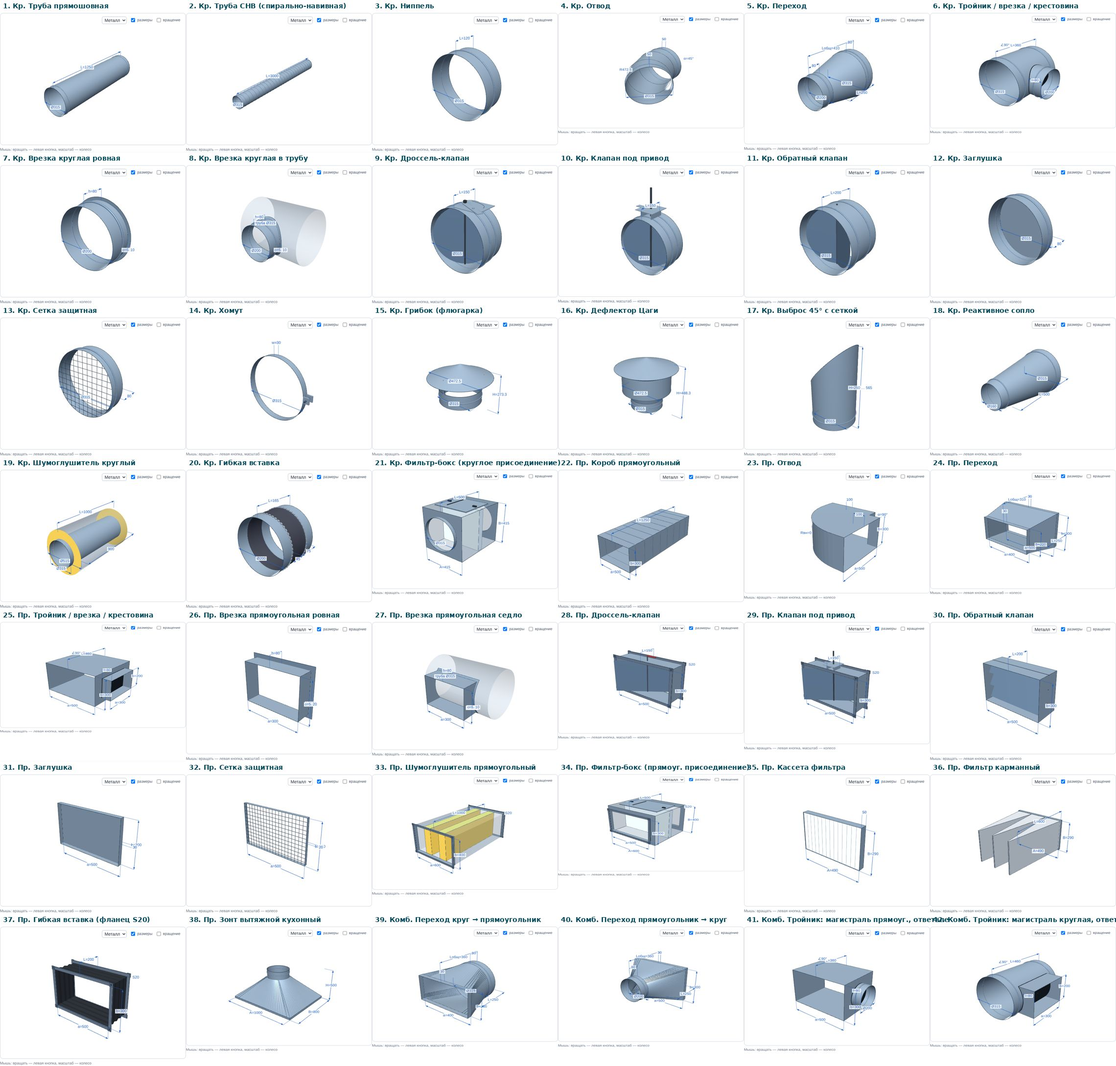
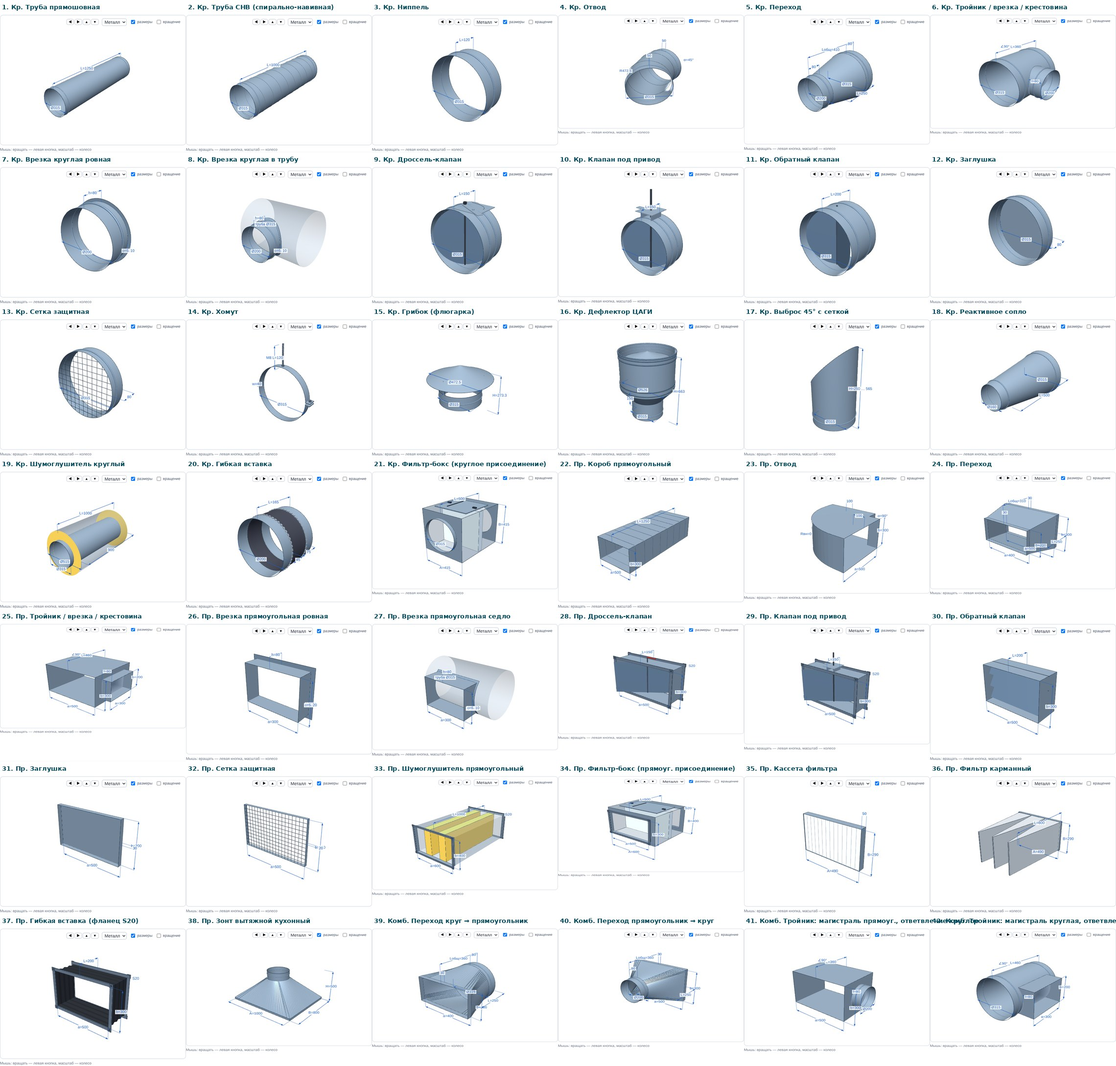
Хомут с болтом и шпилькой М8, чистая врезка в тройниках, СНВ за 1 м.п., новый дефлектор ЦАГИ
- Хомут: лента 40 мм, замок развёрнут, стяжка болтом М8, сверху приварена шпилька М8 с резьбой для подвеса.
- Тройники круглый и прямоугольный: внутри врезки светлая градиентная заливка вместо чёрного провала.
- Труба СНВ: цена, площадь и вес по умолчанию за 1 м.п. (в КП единица «м.п.»).
- Исправлены подписи кнопок изделий (конфликт атрибутов data-i).
- Дефлектор ЦАГИ перерисован по чертежу: патрубок, нижний конус, корпус с валиками, воронка-диффузор,
  зонт на лапках; поле «длина патрубка», расчёт площади по деталям; размеры D, D1, H.
- README и сводная картинка всех 42 изделий обновлены.

Claude-Session: https://claude.ai/code/session_01VZQ95g7KkArQtxt1wvSdji

diff --git a/js/types.js b/js/types.js
@@ -149,6 +149,15 @@ function zigs(g, sh, z0, z1, ox = 0, oy = 0) {   // зиги на расстоя
   if (sh.t !== 'round' || !(SET.zig > 0) || z1 - z0 < 2 * SET.zig) return;
   zig(g, sh.d / 2, z0 + SET.zig, ox, oy); zig(g, sh.d / 2, z1 - SET.zig, ox, oy);
 }
+/* валик на корпусе (дефлектор): тор радиусом rr и две линии по бокам — «двойная линия» как на чертеже */
+function bead(g, r, z, rr) {
+  const R = r + rr * 0.3, zl = rr * 0.8, rl = R + Math.sqrt(rr * rr - zl * zl) + 0.3, draw = VIEW.style === 'draw';
+  const m = new THREE.Mesh(new THREE.TorusGeometry(R, rr, 10, 120),
+    mat(draw ? 0xeef1f5 : 0x8aa3bc, { polygonOffset: true, polygonOffsetFactor: 1, polygonOffsetUnits: 1 }));
+  m.position.z = z; g.add(m);
+  const lm = new THREE.LineBasicMaterial({ color: draw ? 0x111111 : COL.edge });
+  [-1, 1].forEach(s => g.add(new THREE.LineLoop(new THREE.BufferGeometry().setFromPoints(ringPts(rl, z + s * zl, 120)), lm)));
+}
 
 /* ---------- описания полей ---------- */
 const SH = [['round', 'Круглое'], ['rect', 'Прямоугольное']];
@@ -216,10 +225,14 @@ def({
   label: p => `Труба прямошовная Ø${p.D}, L=${p.L}`, calc: ductCalc, build: ductBuild,
 });
 def({
-  id: 'snv', name: 'Труба СНВ (спирально-навивная)', fixed: { shape: 'round' }, perMp: true,
-  fields: [numF('D', 'Диаметр D, мм', 315, 20), numF('L', 'Длина L, мм', 3000)],
-  label: p => `Труба СНВ Ø${p.D}, L=${p.L}`,
-  calc(p) { const r = ductCalc.call(this, p); r.dev.unshift('Спирально-навивная, цена за 1 м.п.'); return r; },
+  id: 'snv', name: 'Труба СНВ (спирально-навивная)', fixed: { shape: 'round', L: 1000 }, perMp: true, unit: 'м.п.',
+  fields: [numF('D', 'Диаметр D, мм', 315, 20)],
+  label: p => `Труба СНВ Ø${p.D}` + (p.L === 1000 ? ' (1 м.п.)' : `, L=${p.L}`),
+  calc(p) {
+    const r = ductCalc.call(this, p);
+    r.dev.unshift(p.L === 1000 ? 'Спирально-навивная. Площадь, вес и цена указаны за 1 м.п., количество в КП — в метрах погонных' : 'Спирально-навивная, цена за 1 м.п.');
+    return r;
+  },
   build(p) {
     const g = ductBuild(p), r = p.D / 2 + 0.6, pitch = Math.max(40, p.D * 0.35), turns = p.L / pitch, n = Math.ceil(turns * 48), pts = [];
     for (let i = 0; i <= n; i++) { const u = i / n, a = 2 * PI * turns * u; pts.push(new THREE.Vector3(r * Math.cos(a), r * Math.sin(a), -p.L / 2 + p.L * u)); }
@@ -356,15 +369,23 @@ function teeBranch(p, a) {
   return { geom: ringsGeom([pts.map(q => q.pb), pts.map(q => q.base.clone().addScaledVector(d, tTop))]), tTop, ext, zExt, tooWide };
 }
 /* отверстие в стенке магистрали под ответвление: тёмная «заплатка» по контуру врезки на наружной и внутренней стороне стенки */
-function teeHole(p, a, lift) {
+function teeHole(p, a, lift) {   // набор колец от края отверстия к центру (на стенке магистрали)
   const s1 = shapeOf(p, '1', 's1'), s2 = shapeOf(p, '2', 's2'), sin = Math.sin(a), cos = Math.cos(a), sg = sin < 0 ? -1 : 1, half = teeHalf(p);
   const d = new THREE.Vector3(sin, 0, cos), xp = new THREE.Vector3(cos, 0, -sin), O = new THREE.Vector3(sg * half, 0, 0);
-  const rings = [1, 0.8, 0.6, 0.4, 0.2, 0.02].map(f => profilePts(s2, 0).map(v => {
+  return [1, 0.9, 0.8, 0.7, 0.6, 0.5, 0.4, 0.3, 0.2, 0.1, 0.02].map(f => profilePts(s2, 0).map(v => {
     v.x *= f; v.y *= f;
     const xw = s1.t === 'round' ? sg * Math.sqrt(Math.max(0, half * half - v.y * v.y)) : sg * half, t = (xw - O.x - v.x * cos) / sin;
     const q = O.clone().addScaledVector(xp, v.x).add(new THREE.Vector3(0, v.y, 0)).addScaledVector(d, t); q.x += sg * lift; return q;
   }));
-  return ringsGeom(rings);
+}
+function teeHoleMeshes(p, a, lift) {   // вид внутрь магистрали: мягкий градиент без чёрного (по краю светлее, к центру глубже)
+  const rings = teeHole(p, a, lift), draw = VIEW.style === 'draw', c0 = new THREE.Color(draw ? 0xdfe4ea : 0x8497ad), c1 = new THREE.Color(draw ? 0xaeb8c4 : 0x56677c);
+  const out = [];
+  for (let k = 0; k < rings.length - 1; k++) {
+    const mt = new THREE.MeshBasicMaterial({ color: c0.clone().lerp(c1, k / (rings.length - 2)), side: THREE.DoubleSide, polygonOffset: true, polygonOffsetFactor: -2, polygonOffsetUnits: -2 });
+    out.push(new THREE.Mesh(ringsGeom([rings[k], rings[k + 1]]), mt));
+  }
+  return out;
 }
 const teeAngles = p => { const al = Math.min(Math.max(p.ang, 20), 160) * PI / 180; return p.kind === 'cross' ? [al, -al] : [al]; };
 /* длина магистрали: по умолчанию по 80 мм с каждой стороны от места врезки (arm); у старых позиций — прежнее поле L */
@@ -401,8 +422,7 @@ def({
     if (!ghost) zigs(g, s1, -L / 2, L / 2);
     teeAngles(p).forEach(a => {
       const br = teeBranch(p, a); put(g, br.geom, { flat: isFlat(s2) });
-      const dark = new THREE.MeshBasicMaterial({ color: 0x10151b, side: THREE.DoubleSide, polygonOffset: true, polygonOffsetFactor: -2, polygonOffsetUnits: -2 });
-      [0.6, -0.6].forEach(l => g.add(new THREE.Mesh(teeHole(p, a, l), dark)));   // отверстие в стенке магистрали
+      [0.6, -0.6].forEach(l => teeHoleMeshes(p, a, l).forEach(m => g.add(m)));   // отверстие в стенке магистрали
       if (s2.t === 'round' && p.Lb > SET.zig + 10) { const b = new THREE.Group(); zig(b, s2.d / 2, br.tTop - SET.zig); b.applyMatrix4(teeFrame(p, a)); g.add(b); }
     });
     return g;
@@ -509,32 +529,55 @@ def({
   },
 });
 
-/* 7. Дефлектор Цаги */
+/* 7. Дефлектор ЦАГИ. Устройство по чертежу (Вородиз Вент): патрубок Ø D, он же внутренняя труба; корпус — цилиндр Ø D1
+   с валиками у обоих краёв и нижним конусом к патрубку; внутри воронка-диффузор от трубы к стенке корпуса;
+   сверху зонт (конус, вершина на уровне кромки корпуса) с воротником Ø D2 на четырёх S-образных лапках.
+   Пропорции сняты с чертежа: D1 = 1,67 D, D2 = 1,43 D, H = 1,63 D, H2 = 1,15 D, H1 = 0,93 D (уточним по вашим размерам). */
 def({
-  id: 'tsagi', name: 'Дефлектор Цаги', up: true,
-  fields: [numF('D', 'Диаметр патрубка D, мм', 315)],
-  label: p => `Дефлектор Цаги Ø${p.D}`,
+  id: 'tsagi', name: 'Дефлектор ЦАГИ', up: true,
+  fields: [numF('D', 'Диаметр патрубка D, мм', 315), numF('hs', 'Длина патрубка снизу, мм', 150, 0)],
+  label: p => `Дефлектор ЦАГИ Ø${p.D}`,
   parts(p) {
-    const D = p.D;
-    return { h0: 0.3 * D, h1: 0.9 * D, Dd: 1.3 * D, Dc: 1.5 * D, zc0: 0.55 * D, zc1: 1.15 * D, Dz: 1.9 * D, zz0: 1.25 * D, zz1: 1.55 * D };
+    const D = p.D, hs = p.hs === undefined || p.hs === '' ? 150 : Math.max(0, +p.hs || 0), r = x => Math.round(x * D);   // размеры круглые, в мм
+    return {
+      hs, D1: r(1.67), D2: r(1.43),
+      zs: hs + r(0.10),      // нижний конус корпуса начинается на патрубке…
+      zk: hs + r(0.485),     // …и доходит до низа цилиндра корпуса
+      zp: hs + r(0.93),      // верх внутренней трубы (начало воронки)
+      zf: hs + r(1.08),      // воронка упирается в стенку корпуса
+      zc: hs + r(1.33),      // низ воротника зонта
+      zu: hs + r(1.37),      // кромка зонта
+      za: hs + r(1.61),      // вершина зонта
+      zt: hs + r(1.63),      // верхняя кромка корпуса = общая высота H
+      rr: Math.min(SET.zigH * 0.8, D * 0.03),   // радиус валика
+    };
   },
   calc(p) {
     const q = this.parts(p), D = p.D;
-    const frus = (d1, d2, h) => PI * (d1 + d2) / 2 * Math.sqrt(h * h + ((d2 - d1) / 2) ** 2);
-    const a = m2(PI * D * q.h0 + frus(D, q.Dd, q.h1 - q.h0) + PI * q.Dc * (q.zc1 - q.zc0) + frus(q.Dz, 0, q.zz1 - q.zz0));
-    return res(a, wt(a, p.t), [`Типовые пропорции от D: патрубок ${n1(q.h0)}, диффузор до Ø${n1(q.Dd)}, корпус Ø${n1(q.Dc)}×${n1(q.zc1 - q.zc0)}, зонт Ø${n1(q.Dz)} мм`,
-      'Общая высота ≈ ' + n1(q.zz1) + ' мм']);
+    const frus = (d1, d2, h) => PI * (d1 + d2) / 2 * Math.hypot(h, (d2 - d1) / 2);
+    const pipe = PI * D * q.zp, funnel = frus(D, q.D1, q.zf - q.zp), skirt = frus(D, q.D1, q.zk - q.zs), body = PI * q.D1 * (q.zt - q.zk);
+    const umb = frus(0, q.D2, q.za - q.zu) + PI * q.D2 * (q.zu - q.zc), legs = 8 * 30 * 0.48 * D;   // 4 лапки зонта + 4 лапки корпуса, полоса 30 мм
+    const a = m2(pipe + funnel + skirt + body + umb + legs);
+    return res(a, wt(a, p.t), [`Патрубок и внутренняя труба: ${n1(PI * D)} × ${n1(q.zp)} мм (патрубок снизу ${n1(q.hs)} мм)`,
+      `Корпус: Ø${n1(q.D1)} × ${n1(q.zt - q.zk)} мм, по 2 валика у каждого края, нижний конус и воронка диффузора`,
+      `Зонт Ø${n1(q.D2)} мм на 4 лапках, ещё 4 лапки держат корпус (полоса 30 мм)`, `Общая высота H = ${n1(q.zt)} мм (пропорции от D по чертежу)`]);
   },
   build(p) {
-    const q = this.parts(p), g = new THREE.Group(), D = p.D;
-    put(g, tube({ t: 'round', d: D }, 0, q.h0)); if (q.h0 > SET.zig) zig(g, D / 2, SET.zig);
-    cone(g, D / 2, q.h0, q.Dd / 2, q.h1);
-    put(g, tube({ t: 'round', d: q.Dc }, q.zc0, q.zc1));
-    cone(g, q.Dz / 2, q.zz0, 0, q.zz1);
-    for (let i = 0; i < 4; i++) {
-      const a = PI / 4 + PI / 2 * i;
-      g.add(rod(new THREE.Vector3(q.Dd / 2 * Math.cos(a), q.Dd / 2 * Math.sin(a), q.h1),
-        new THREE.Vector3(q.Dz * 0.3 * Math.cos(a), q.Dz * 0.3 * Math.sin(a), q.zz0 + 10), 4));
+    const q = this.parts(p), g = new THREE.Group(), D = p.D, rd = d => ({ t: 'round', d });
+    put(g, tube(rd(D), 0, q.zp)); if (q.hs > SET.zig) zig(g, D / 2, SET.zig);            // патрубок + внутренняя труба
+    cone(g, D / 2, q.zp, q.D1 / 2 - 8, q.zf);                                               // воронка диффузора (кромка чуть внутри стенки)
+    cone(g, D / 2, q.zs, q.D1 / 2, q.zk);                                                   // нижний конус корпуса
+    put(g, tube(rd(q.D1), q.zk, q.zt));                                                     // корпус
+    [0.07, 0.17].forEach(k => bead(g, q.D1 / 2, q.zt - k * D, q.rr));                      // валики у верхней кромки
+    [0.065, 0.19].forEach(k => bead(g, q.D1 / 2, q.zk + k * D, q.rr));                     // …и у нижней
+    bead(g, q.D1 / 2, q.zt - q.rr * 0.5, q.rr * 1.3);                                       // закатанная кромка
+    put(g, tube(rd(q.D2), q.zc, q.zu));                                                     // воротник зонта
+    cone(g, q.D2 / 2, q.zu, 0, q.za);                                                       // зонт
+    const rb = Math.max(2.5, D * 0.01), rA = q.D2 / 2 - rb * 1.5, rC = D / 2 + 0.04 * D;
+    for (let i = 0; i < 4; i++) {                                                           // S-образные лапки зонта
+      const a = PI / 4 + PI / 2 * i, P = (r, z) => V(r * Math.cos(a), r * Math.sin(a), z);
+      const pts = [P(rA, q.zu - 0.02 * D), P(rA, q.zu - 0.15 * D), P(rC, q.zp + 0.09 * D), P(rC, q.zp + 0.01 * D)];
+      for (let j = 0; j < 3; j++) g.add(rod(pts[j], pts[j + 1], rb));
     }
     return g;
   },
@@ -674,18 +717,41 @@ def({
 /* 14. Хомут */
 def({
   id: 'clamp', name: 'Хомут', t0: 1.0,
-  fields: [numF('D', 'Диаметр воздуховода D, мм', 315), numF('w', 'Ширина ленты, мм', 30)],
-  label: p => `Хомут Ø${p.D}, лента ${p.w} мм`,
+  fields: [numF('D', 'Диаметр воздуховода D, мм', 315), numF('w', 'Ширина ленты, мм', 40),
+    selF('hang', 'Подвес', [['m8', 'Шпилька М8 сверху'], ['none', 'Без подвеса']], 'm8'),
+    numF('hl', 'Длина шпильки М8, мм', 120, 10, p => p.hang === 'm8')],
+  label: p => `Хомут Ø${p.D}, лента ${p.w} мм, стяжка болтом М8` + (p.hang === 'm8' ? `, подвес шпилька М8 L=${p.hl}` : ''),
   calc(p) {
-    const len = PI * (p.D + 2 * p.t) + 80, a = m2(len * p.w);
-    return res(a, wt(a, p.t) + 0.05, [`Лента: ${n1(len)} × ${p.w} мм (с ушками 2×40), δ=${p.t}`, 'В вес включён крепёж 0,05 кг']);
+    const len = PI * (p.D + 2 * p.t) + 80, a = m2(len * p.w), stud = p.hang === 'm8' ? PI * 0.004 ** 2 * (p.hl / 1000) * SET.density + 0.012 : 0;
+    const dev = [`Лента: ${n1(len)} × ${p.w} мм (с ушками 2×40), δ=${p.t}`, 'Стяжка болтом М8×40 с гайкой и шайбами, вес 0,05 кг'];
+    if (p.hang === 'm8') dev.push(`Подвес: шпилька М8 длиной ${p.hl} мм и приваренная гайка, вес ${n1(stud * 1000)} г`);
+    return res(a, wt(a, p.t) + 0.05 + stud, dev);
   },
   build(p) {
-    const g = new THREE.Group(), r = p.D / 2 + p.t;
-    put(g, tube({ t: 'round', d: 2 * r }, -p.w / 2, p.w / 2));
-    [-1, 1].forEach(k => { const e = new THREE.Mesh(new THREE.BoxGeometry(30, p.w, 6), mat(COL.steel)); e.position.set(r + 15, 0, k * 14); g.add(e); });
-    g.rotation.x = 0;
-    const bolt = rod(new THREE.Vector3(r + 15, 0, -30), new THREE.Vector3(r + 15, 0, 30), 4); g.add(bolt);
+    /* лента разомкнута сбоку (+X); концы ленты загнуты наружу двумя ушками, они стоят напротив друг друга вдоль окружности
+       (по вертикали), болт М8 идёт поперёк ушек; сверху (+Y) приварена гайка и вкручена шпилька М8 для подвеса */
+    const g = new THREE.Group(), r = p.D / 2 + p.t, w = p.w, gap = 10, tt = 3, lug = 26, ae = (gap / 2) / r, n = 140, pos = [], idx = [];
+    for (let i = 0; i <= n; i++) {
+      const ang = ae + (2 * PI - 2 * ae) * i / n, c = r * Math.cos(ang), sn = r * Math.sin(ang);
+      pos.push(c, sn, -w / 2, c, sn, w / 2);
+    }
+    for (let i = 0; i < n; i++) { const k = i * 2; idx.push(k, k + 1, k + 2, k + 1, k + 3, k + 2); }
+    const band = new THREE.BufferGeometry(); band.setAttribute('position', new THREE.Float32BufferAttribute(pos, 3)); band.setIndex(idx); band.computeVertexNormals();
+    put(g, band);
+    [-1, 1].forEach(sg => { const l = new THREE.Group(); put(l, new THREE.BoxGeometry(lug, tt, w), { flat: true }); l.position.set(r + lug / 2 - 1, sg * (gap / 2 + tt / 2), 0); g.add(l); });
+    const bx = r + lug * 0.55, ext = gap / 2 + tt, bolt = mat(0x56657a);   // болт М8: стержень Ø8, шестигранные головка и гайка, шайбы
+    g.add(rod(V(bx, -ext - 6, 0), V(bx, ext + 8, 0), 4, 0x56657a));
+    const hex = (rad, h, y) => { const m = new THREE.Mesh(new THREE.CylinderGeometry(rad, rad, h, 6), bolt); m.position.set(bx, y, 0); g.add(m); };
+    const washer = y => { const m = new THREE.Mesh(new THREE.CylinderGeometry(8.5, 8.5, 1.6, 20), mat(COL.steel)); m.position.set(bx, y, 0); g.add(m); };
+    washer(-ext - 0.8); hex(7.5, 5.3, -ext - 1.6 - 2.65); washer(ext + 0.8); hex(7.5, 6.5, ext + 1.6 + 3.25);
+    if (p.hang === 'm8') {   // подвес: гайка М8 на верхней точке ленты и шпилька с резьбой
+      const nutH = 6.5, y0 = r - 0.5;
+      const nm = new THREE.Mesh(new THREE.CylinderGeometry(7.5, 7.5, nutH, 6), bolt); nm.position.set(0, y0 + nutH / 2, 0); g.add(nm);
+      g.add(rod(V(0, y0 - 2, 0), V(0, r + p.hl, 0), 4, 0xaab5c4));
+      const pts = [], pitch = 1.25, steps = Math.round(p.hl / pitch) * 8;   // видимая резьба: винтовая линия с шагом 1,25 мм
+      for (let i = 0; i <= steps; i++) { const y = y0 + nutH + (p.hl - nutH) * i / steps, a = 2 * PI * (y / pitch); pts.push(V(4.2 * Math.cos(a), y, 4.2 * Math.sin(a))); }
+      g.add(new THREE.Line(new THREE.BufferGeometry().setFromPoints(pts), new THREE.LineBasicMaterial({ color: VIEW.style === 'draw' ? 0x111111 : 0x3f4c5e })));
+    }
     return g;
   },
 });

diff --git a/js/app.js b/js/app.js
@@ -198,10 +198,10 @@ function update() {
   if (!ok) { $('#result').innerHTML = ''; return; }
   const r = compute(cur.type, cur.p);
   cur.r = r;
-  const unit = autoPrice(cur.type, cur.p, r);
+  const unit = autoPrice(cur.type, cur.p, r), mp1 = cur.type.perMp && cur.p.L === 1000;
   $('#result').innerHTML = `
-    <div class="kpis"><div><span>Площадь</span><b>${num(r.area)} м²</b></div><div><span>Вес</span><b>${num(r.weight, 2)} кг</b></div>
-    <div><span>Цена (авто)</span><b>${money(unit)} грн</b></div></div>
+    <div class="kpis"><div><span>Площадь${mp1 ? ' за 1 м.п.' : ''}</span><b>${num(r.area)} м²</b></div><div><span>Вес${mp1 ? ' за 1 м.п.' : ''}</span><b>${num(r.weight, 2)} кг</b></div>
+    <div><span>Цена${mp1 ? ' за 1 м.п.' : ''} (авто)</span><b>${money(unit)} грн</b></div></div>
     <ul class="dev">${r.dev.map(d => `<li>${esc(d)}</li>`).join('')}</ul>`;
   $('#price').placeholder = money(unit);
   clearTimeout(timer);
@@ -238,7 +238,7 @@ $('#add').addEventListener('click', () => {
   if (!numericOk()) return;
   const sec = $('#section').value.trim() || state.sections[0];
   const manual = parseFloat($('#price').value.replace(',', '.'));
-  const it = { id: cur.editId || Date.now(), type: cur.type.id, p: { ...cur.p }, qty: Math.max(1, parseInt($('#qty').value) || 1),
+  const it = { id: cur.editId || Date.now(), type: cur.type.id, p: { ...cur.p }, qty: qtyOf(cur.type, $('#qty').value),
     price: isFinite(manual) && manual > 0 ? manual : null, section: sec, thumb: snapshot(cur.type, cur.p) };
   if (!state.sections.includes(sec)) state.sections.push(sec);
   const i = state.items.findIndex(x => x.id === cur.editId);
@@ -253,11 +253,13 @@ function rowsData() {
   const L = state.set, disc = (+L.disc || 0) / 100;
   return state.items.map(it => { try { return rowOf(it, disc); } catch (e) { console.error(e); return null; } }).filter(Boolean);
 }
+/* количество: целые штуки, а для погонных метров (СНВ) допускаются дробные значения */
+const qtyOf = (type, v) => { const x = parseFloat(String(v).replace(',', '.')); return type && type.perMp ? Math.max(0.1, x || 1) : Math.max(1, parseInt(v) || 1); };
 function rowOf(it, disc) {
   const type = TYPES.find(t => t.id === it.type), r = compute(type, it.p);
   const price = it.price != null ? it.price : autoPrice(type, it.p, r);
   const pd = Math.round(price * (1 - disc) * 100) / 100;
-  return { it, name: type.label(it.p), th: it.p.t, r, price, pd, sr: price * it.qty, sd: pd * it.qty, area: r.area * it.qty, w: r.weight * it.qty };
+  return { it, unit: type.unit && it.p.L === 1000 ? type.unit : null, name: type.label(it.p), th: it.p.t, r, price, pd, sr: price * it.qty, sd: pd * it.qty, area: r.area * it.qty, w: r.weight * it.qty };
 }
 function renderKP() {
   const T = TXT[state.set.lang], rows = rowsData();
@@ -273,7 +275,7 @@ function renderKP() {
         <td class="c">${no}</td>
         <td class="nm"><img src="${r.it.thumb}" alt=""><div><b>${esc(r.name)}</b><small>δ ${String(r.th).replace('.', ',')} мм</small></div>
           <span class="rowbtn no-print"><button data-act="sk" title="Печать эскиза для заказчика">🖨</button><button data-act="edit" title="Изменить">✎</button><button data-act="del" title="Удалить">✕</button></span></td>
-        <td class="c"><input class="qty" type="number" min="1" value="${r.it.qty}" data-f="qty"> <small>${T.unit}</small></td>
+        <td class="c"><input class="qty" type="number" min="${r.unit ? 0.1 : 1}" step="${r.unit ? 'any' : 1}" value="${r.it.qty}" data-f="qty"> <small>${r.unit || T.unit}</small></td>
         <td class="r"><input class="pr" type="text" value="${money(r.price)}" data-f="price"></td>
         <td class="r">${money(r.sr)}</td><td class="r">${money(r.pd)}</td><td class="r">${money(r.sd)}</td>
         <td class="r">${num(r.area)}${r.r.flange ? `<small class="fa">изд. ${num(r.r.areaSheet * r.it.qty)}<br>фл. ${num(r.r.flange.area * r.it.qty)}</small>` : ''}</td><td class="r">${num(r.w, 2)}</td></tr>`;
@@ -291,14 +293,14 @@ function renderKP() {
     <tr><td>${T.vat} ${state.set.vat}%</td><td class="r">${money(vat)}</td></tr>
     <tr><td>${T.sumArea}</td><td class="r">${num(S.area)}</td></tr><tr><td>${T.sumW}</td><td class="r">${num(S.w, 2)}</td></tr>`;
   $('#sectionList').innerHTML = state.sections.map(s => `<option value="${esc(s)}">`).join('');
-  document.querySelectorAll('[data-i]').forEach(el => { el.textContent = T[el.dataset.i]; });
+  document.querySelectorAll('[data-tr]').forEach(el => { el.textContent = T[el.dataset.tr]; });   // подписи КП (не путать с кнопками изделий data-i)
   $('#kpMeta').dataset.lang = state.set.lang;
   state._rows = rows; state._S = S;
 }
 $('#tbl').addEventListener('change', e => {
   const tr = e.target.closest('tr[data-id]'); if (!tr) return;
   const it = state.items.find(x => x.id == tr.dataset.id), f = e.target.dataset.f;
-  if (f === 'qty') it.qty = Math.max(1, parseInt(e.target.value) || 1);
+  if (f === 'qty') it.qty = qtyOf(TYPES.find(t => t.id === it.type), e.target.value);
   if (f === 'price') { const v = parseFloat(e.target.value.replace(/\s/g, '').replace(',', '.')); it.price = v > 0 ? v : null; }
   save(); renderKP();
 });
@@ -320,7 +322,7 @@ function printSketch(type, p, qty) {
   const rows = type.fields.filter(f => !f.show || f.show(p)).filter(f => !(f.k === 'shape' || f.k === 's1' || f.k === 's2') || true).map(f => {
     const v = f.sel ? (f.sel.find(o => o[0] === p[f.k]) || [, p[f.k]])[1] : p[f.k];
     return `<tr><td>${esc(f.l)}</td><td>${esc(v)}</td></tr>`;
-  }).join('') + `<tr><td>Толщина металла, мм</td><td>${String(p.t).replace('.', ',')}</td></tr>` + (qty ? `<tr><td>${T.qty}</td><td>${qty} ${T.unit}</td></tr>` : '') +
+  }).join('') + `<tr><td>Толщина металла, мм</td><td>${String(p.t).replace('.', ',')}</td></tr>` + (qty ? `<tr><td>${T.qty}</td><td>${qty} ${type.unit && p.L === 1000 ? type.unit : T.unit}</td></tr>` : '') +
     (r.flange ? `<tr><td>Квадратура изделия, м²</td><td>${num(r.areaSheet)}</td></tr><tr><td>Фланец ${r.flange.type} (шинорейка), м²</td><td>${num(r.flange.area)}</td></tr><tr><td>Уголки ${r.flange.type}, шт.</td><td>${r.flange.corners}</td></tr>` : '') + `<tr><td>${T.area}${r.flange ? ' с фланцем' : ''}</td><td>${num(r.area)}</td></tr><tr><td>${T.w}</td><td>${num(r.weight, 2)}</td></tr>`;
   $('#sketch').innerHTML = `<div class="skh"><img src="${state.logo || LOGO}" alt=""><div><b>${esc(D.company)}</b><br><small>${esc(D.legal)}</small></div><div class="skc">${esc(D.contacts).replace(/\n/g, '<br>')}</div></div>
     <h2>${T.sk}</h2><p class="skm">${T.obj} ${esc(D.obj)} &nbsp; ${T.cust} ${esc(D.cust)}</p><h3>${esc(type.label(p))}</h3>
@@ -342,7 +344,13 @@ function bindDoc() {
   });
 }
 function snvTable() {
-  $('#snvPrices').innerHTML = SNV_D.map(d => `<label>Ø${d}<input type="number" data-set="snv/${d}" placeholder="авто"></label>`).join('');
+  $('#snvPrices').innerHTML = SNV_D.map(d => `<label>Ø${d}<input type="number" data-set="snv/${d}"></label>`).join('');
+  snvPlaceholders();
+}
+function snvPlaceholders() {   // серым показываем цену за 1 м.п., которая получается автоматически (площадь × цена за м²)
+  document.querySelectorAll('#snvPrices input').forEach(el => {
+    const d = +el.dataset.set.split('/')[1]; el.placeholder = money(Math.PI * d / 1000 * rateFor(SET.t));
+  });
 }
 function bindSettings() {
   snvTable();
@@ -352,7 +360,7 @@ function bindSettings() {
     el.addEventListener('input', () => {
       let o = state.set; for (let i = 0; i < path.length - 1; i++) o = o[path[i]];
       o[path.at(-1)] = el.type === 'number' ? parseFloat(el.value) || 0 : el.value;
-      syncSet(); save(); renderKP(); update();
+      syncSet(); save(); snvPlaceholders(); renderKP(); update();
     });
   });
 }

diff --git a/index.html b/index.html
@@ -59,7 +59,7 @@
     <button id="logoReset" type="button">Вернуть логотип</button>
     <button id="clear" type="button">Очистить КП</button>
   </div>
-  <h3 class="sub">Труба СНВ: цена за 1 м.п., грн (пусто = площадь × цена за м²)</h3>
+  <h3 class="sub">Труба СНВ: цена за 1 м.п., грн (пусто = автоматически: площадь 1 м.п. × цена за м², значение показано серым)</h3>
   <div id="snvPrices" class="fields set"></div>
   <p class="hint">Цены в КП указываются с НДС. Цены за м² — стартовые значения, подставьте свои. Цену любой строки можно поправить прямо в таблице КП.</p>
 </details>
@@ -75,10 +75,10 @@
     <span data-key="b3" contenteditable="plaintext-only"></span><span data-key="b4" contenteditable="plaintext-only"></span>
   </div>
   <div id="kpMeta" class="meta">
-    <h2><span data-i="title"></span> <span data-i="no"></span> <span class="inl" data-key="kpno" contenteditable="plaintext-only" data-ph="____"></span>
-      <span data-i="from"></span> <input type="date" data-key="date"></h2>
-    <div class="line"><b data-i="obj"></b> <span class="fill" data-key="obj" contenteditable="plaintext-only" data-ph="Назва / адреса об'єкта"></span></div>
-    <div class="line"><b data-i="cust"></b> <span class="fill" data-key="cust" contenteditable="plaintext-only" data-ph="ПІБ / назва замовника"></span></div>
+    <h2><span data-tr="title"></span> <span data-tr="no"></span> <span class="inl" data-key="kpno" contenteditable="plaintext-only" data-ph="____"></span>
+      <span data-tr="from"></span> <input type="date" data-key="date"></h2>
+    <div class="line"><b data-tr="obj"></b> <span class="fill" data-key="obj" contenteditable="plaintext-only" data-ph="Назва / адреса об'єкта"></span></div>
+    <div class="line"><b data-tr="cust"></b> <span class="fill" data-key="cust" contenteditable="plaintext-only" data-ph="ПІБ / назва замовника"></span></div>
     <div class="intro" data-key="intro" contenteditable="plaintext-only"></div>
   </div>
 
@@ -86,21 +86,21 @@
 
   <div class="bottom">
     <div class="conds">
-      <h3 data-i="conds"></h3>
+      <h3 data-tr="conds"></h3>
       <div class="kv"><span>Термін виконання:</span><i data-key="term" contenteditable="plaintext-only"></i></div>
       <div class="kv"><span>Умови оплати:</span><i data-key="pay" contenteditable="plaintext-only"></i></div>
       <div class="kv"><span>Умови поставки:</span><i data-key="delivery" contenteditable="plaintext-only"></i></div>
       <div class="kv"><span>Гарантія:</span><i data-key="warr" contenteditable="plaintext-only"></i></div>
       <div class="kv"><span>Пропозиція дійсна до:</span><input type="date" data-key="valid"></div>
     </div>
-    <div class="summary"><h3 data-i="total"></h3><table id="sum"></table></div>
+    <div class="summary"><h3 data-tr="total"></h3><table id="sum"></table></div>
   </div>
 
-  <div class="comments"><h3 data-i="comm"></h3><div class="cbox" data-key="comments" contenteditable="plaintext-only"></div></div>
+  <div class="comments"><h3 data-tr="comm"></h3><div class="cbox" data-key="comments" contenteditable="plaintext-only"></div></div>
 
   <div class="sign">
     <div><div data-key="boss" contenteditable="plaintext-only"></div><div data-key="bossName" contenteditable="plaintext-only"></div></div>
-    <div class="mp"><span data-i="mp"></span><br><small data-i="sign"></small></div>
+    <div class="mp"><span data-tr="mp"></span><br><small data-tr="sign"></small></div>
   </div>
   <div class="foot"><span data-key="foot1" contenteditable="plaintext-only"></span><span data-key="foot2" contenteditable="plaintext-only"></span></div>
 </section>

diff --git a/js/annot.js b/js/annot.js
@@ -68,9 +68,11 @@ const ANN = {
       lin(V(Rk, 0, 0), V(Rk, 0, zc + hc), V(k, 0, 0), 'H=' + n1(zc + hc))];
   },
   tsagi(p) {
-    const q = TYPES.find(t => t.id === 'tsagi').parts(p), k = kk(p.D, q.Dz);
-    return [lin(V(-p.D / 2, 0, 0), V(p.D / 2, 0, 0), V(0, -k, 0), 'Ø' + p.D), lin(V(-q.Dc / 2, 0, q.zc0), V(q.Dc / 2, 0, q.zc0), V(0, -k, 0), 'Ø' + n1(q.Dc)),
-      lin(V(q.Dz / 2, 0, 0), V(q.Dz / 2, 0, q.zz1), V(k, 0, 0), 'H=' + n1(q.zz1))];
+    const q = TYPES.find(t => t.id === 'tsagi').parts(p), k = kk(p.D, q.D1);
+    const out = [lin(V(-p.D / 2, 0, 0), V(p.D / 2, 0, 0), V(0, -k, 0), 'Ø' + p.D), lin(V(-q.D1 / 2, 0, q.zk), V(q.D1 / 2, 0, q.zk), V(0, -k, 0), 'Ø' + n1(q.D1)),
+      lin(V(q.D1 / 2, 0, 0), V(q.D1 / 2, 0, q.zt), V(k, 0, 0), 'H=' + n1(q.zt))];
+    if (q.hs > 0) out.push(lin(V(-p.D / 2, 0, 0), V(-p.D / 2, 0, q.hs), V(-k, 0, 0), String(q.hs)));
+    return out;
   },
   exhaust45(p) {
     const k = kk(p.D);
@@ -96,8 +98,9 @@ const ANN = {
     return [...sec({ t: 'rect', a: p.A, b: p.B }, h + 40, k), lin(V(0, p.B / 2, -h), V(0, p.B / 2, h), V(0, k, 0), 'L=' + p.L)];
   },
   clamp(p) {
-    const r = p.D / 2 + p.t, k = kk(p.D);
-    return [lin(V(-r, 0, p.w / 2), V(r, 0, p.w / 2), V(0, -k, 0), 'Ø' + p.D), lin(V(0, r, -p.w / 2), V(0, r, p.w / 2), V(0, k, 0), 'w=' + p.w)];
+    const r = p.D / 2 + p.t, k = kk(p.D), out = [lin(V(-r, 0, p.w / 2), V(r, 0, p.w / 2), V(0, -k, 0), 'Ø' + p.D), lin(V(-r, 0, -p.w / 2), V(-r, 0, p.w / 2), V(-k * 0.7, 0, 0), 'w=' + p.w)];
+    if (p.hang === 'm8') out.push(lin(V(0, r, p.w / 2 + 12), V(0, r + p.hl, p.w / 2 + 12), V(0, 0, k * 0.6), 'М8 L=' + p.hl));
+    return out;
   },
   hood(p) {
     const k = kk(p.A, p.B) * 0.8, top = p.hs + p.H;

diff --git a/README.md b/README.md
@@ -38,7 +38,7 @@
 - припуски: на фальц и отбортовку, на фланец, на швы, допуски по размерам;
 - веса и цены комплектующих: ткань гибкой вставки (0,6 кг/м²), ось и ручка / кронштейн дросселя, пружины обратного клапана, фильтрующий материал кассеты и карманов (0,35 кг/м²);
 - отверстия фланца (Ø9 и Ø12 мм), число отверстий на уголке;
-- типовые пропорции: зонт, грибок, дефлектор Цаги, шумоглушители, фильтр-бокс;
+- типовые пропорции: зонт, грибок, дефлектор ЦАГИ (сняты с чертежа Вородиз Вент: корпус 1,67 D, зонт 1,43 D, высота 1,63 D), шумоглушители, фильтр-бокс;
 - стандартные длины: короб и труба 1250, СНВ 3000, шумоглушители 1000 / 600 / 500, переходы 250, гильза 80, шейка отвода 100, участок под фланец 30;
 - цены за штуку для изделий, которые удобнее считать не по площади (фильтры, клапаны, привод, зонты).
 
